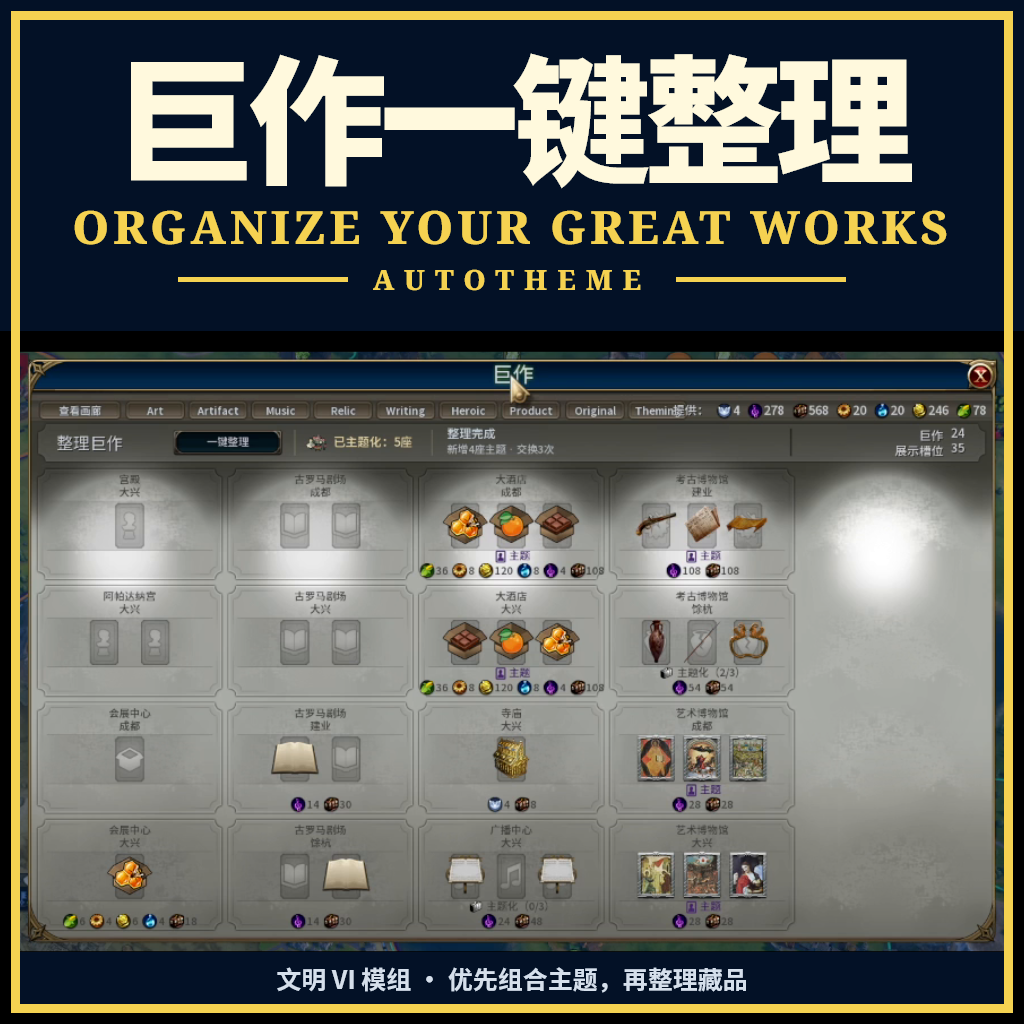
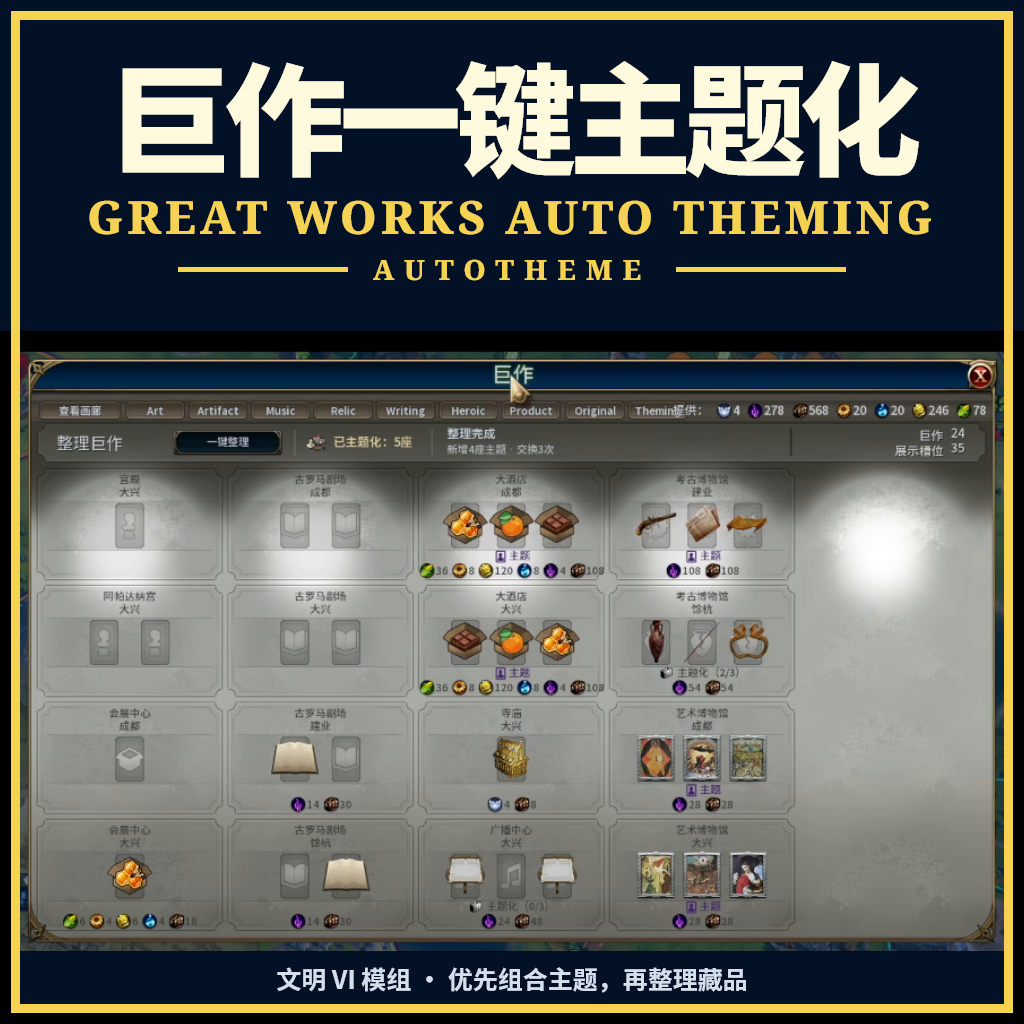
Refresh themed-work cover and record live single-player regression

Changed region(s): [[0.0625, 0.0312, 0.9375, 0.2812]]

diff --git a/docs/VERIFICATION.md b/docs/VERIFICATION.md
@@ -1,6 +1,12 @@
+# 0.3.0-mp.3 single-player live regression / 单机实机回归
+
+2026-11-17: All seven Steam-installed files match the manifest 11 / 0.3.0-mp.3 release hashes. Re-ran all offline suites successfully. Then loaded a separate copy of the 24-work demo save in a real Windows Steam single-player game (English UI, Gathering Storm / HD collection). Clicked the visible “Theme Great Works” button once: the engine confirmed three swaps, themed buildings increased from 1 to 5, and all 24 work IDs remained present. The three slots of the pre-existing themed building were unchanged. The toolbar reported “Done: 4 new themed buildings, 3 swaps”; closing and reopening the panel preserved that result, with further arrangement disabled because no better plan remained. No mod code or engine state was patched for this test. Read-only Lua snapshots and commands are retained in the local `regression/20261117/autotheme-sp-mp3` evidence folder.
+
+This verifies the single-player arrangement flow in that save after the multiplayer scheduler changes. It does not claim exhaustive compatibility or a live multiplayer test.
+
 # 0.3.0-mp.3 naming update / 名称更新
 
-2026-11-17: Manifest 11 renames the mod to “巨作一键主题化 / Great Works Auto Theming” and the action button to “一键主题化 / Theme Great Works”. Workshop titles, descriptions, README headings and usage instructions match the new names. The existing mod ID and Workshop item are retained. The only Lua change is the diagnostic version string; planner, scoring and execution behavior are unchanged. Bilingual metadata, 30 paired in-game keys, placeholders, XML and the seven-file release manifest pass validation. The server confirms both localized Workshop descriptions and titles. Existing screenshots and video are retained; no new gameplay validation is claimed for this naming update.
+2026-11-17: Manifest 11 renames the mod to “巨作一键主题化 / Great Works Auto Theming” and the action button to “一键主题化 / Theme Great Works”. Workshop titles, descriptions, README headings and usage instructions match the new names. The existing mod ID and Workshop item are retained. The only Lua change is the diagnostic version string; planner, scoring and execution behavior are unchanged. Bilingual metadata, 30 paired in-game keys, placeholders, XML and the seven-file release manifest pass validation. The server confirms both localized Workshop descriptions and titles. The subsequent single-player live check is recorded above.
 
 # 0.3.0-mp.2 Workshop release / 工坊发布
 
